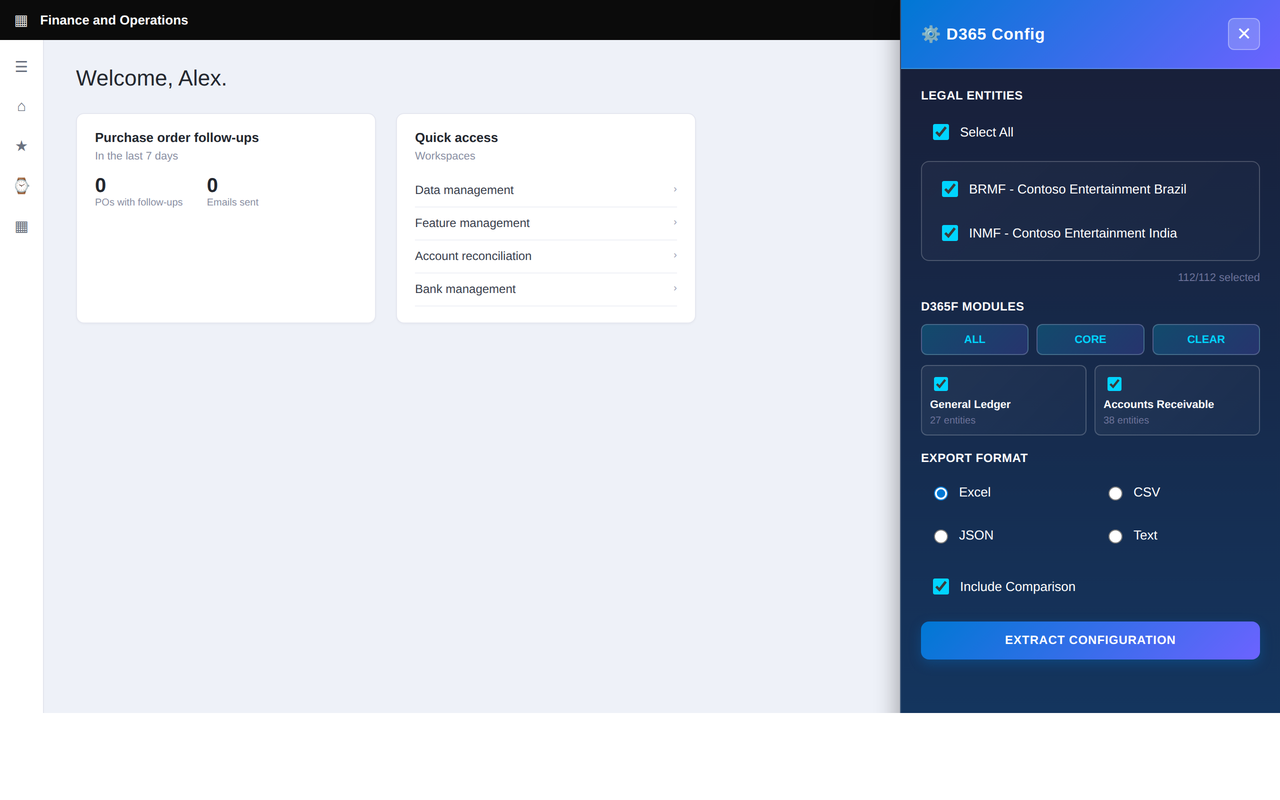
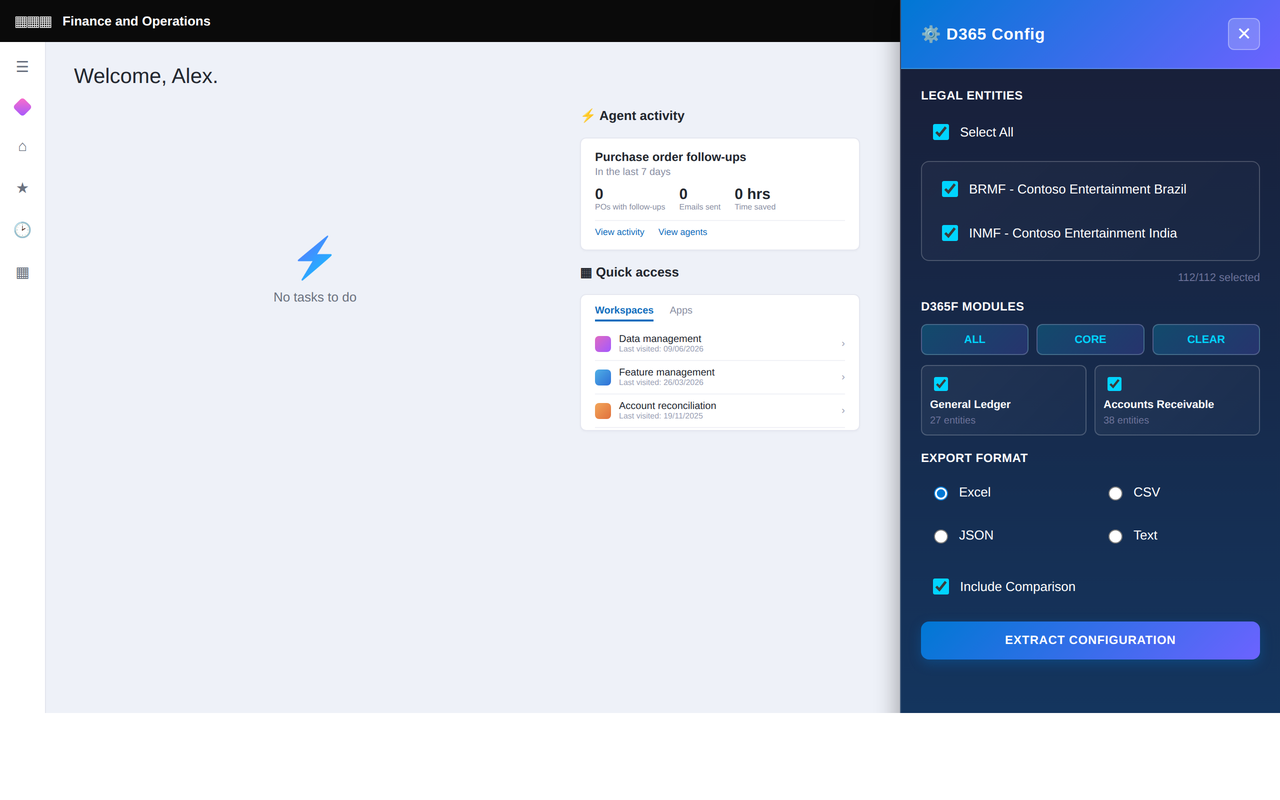
Rebuild D365 background mockup in store screenshots
Replace the generic dashboard background with a closer
recreation of the real Finance and Operations UI: Agent
activity cards, Quick access list with last-visited dates,
lightning-bolt empty state, left icon rail, and AI disclaimer
footer.

Claude-Session: https://claude.ai/code/session_014gvKBToYwyUDe6GxY7kjEh

diff --git a/store-assets/screenshot-1-popup-source.html b/store-assets/screenshot-1-popup-source.html
@@ -15,51 +15,100 @@
     height: 44px; width: 1280px; background: #f3f3f3; border-bottom: 1px solid #d8d8d8;
     display: flex; align-items: center; padding: 0 12px; gap: 10px;
   }
-  .chrome .navicon { width: 15px; height: 15px; opacity: .55; }
+  .chrome .navicon { font-size: 13px; opacity: .55; }
   .chrome .addressbar {
     flex: 1; height: 26px; background: #fff; border: 1px solid #d8d8d8; border-radius: 14px;
     display: flex; align-items: center; padding: 0 12px; font-size: 12px; color: #444; gap: 6px;
   }
   .chrome .addressbar .lock { font-size: 11px; opacity: .6; }
   .chrome .icons { display: flex; align-items: center; gap: 14px; margin-left: 8px; }
-  .chrome .icons .dot { width: 16px; height: 16px; border-radius: 3px; background: #b9b9b9; opacity: .5; }
+  .chrome .icons .dot { width: 16px; height: 16px; border-radius: 3px; background: #b9b9b9; opacity: .5; font-size:11px; text-align:center;}
   .chrome .ext-icon {
     width: 26px; height: 26px; border-radius: 6px; background: #e6f2fb; border: 1px solid #8ec7ee;
     display: flex; align-items: center; justify-content: center; font-size: 13px; box-shadow: 0 0 0 3px rgba(0,120,212,0.12);
   }
-  .chrome .avatar { width: 22px; height: 22px; border-radius: 50%; background: linear-gradient(135deg,#0078d4,#6c63ff); }
+  .chrome .avatar {
+    width: 22px; height: 22px; border-radius: 50%; background: linear-gradient(135deg,#0078d4,#6c63ff);
+    color:#fff; font-size:9px; font-weight:700; display:flex; align-items:center; justify-content:center;
+  }
 
   /* ---------- D365 app background ---------- */
   .app { width: 1280px; height: 756px; background: #eef1f8; position: relative; }
   .app .topbar {
-    height: 40px; background: #0b0b0b; color: #fff; display: flex; align-items: center;
+    height: 42px; background: #0a0a0a; color: #fff; display: flex; align-items: center;
     padding: 0 14px; font-size: 13px; gap: 12px;
   }
-  .app .topbar .grid { font-size: 15px; opacity: .85; }
-  .app .topbar .title { font-weight: 600; }
+  .app .topbar .waffle { font-size: 15px; letter-spacing: -2px; opacity: .9; }
+  .app .topbar .title { font-weight: 600; font-size: 13px; }
+  .app .topbar .spacer { flex: 1; }
+  .app .topbar .ticons { display: flex; align-items: center; gap: 16px; font-size: 13px; opacity: .85; }
+  .app .topbar .copilot { display:flex; align-items:center; gap:5px; }
+  .app .topbar .copilot .swirl {
+    width:15px; height:15px; border-radius:50%;
+    background: conic-gradient(from 180deg,#00d4ff,#6c63ff,#ff6ec7,#00d4ff);
+  }
+  .app .topbar .avatar2 {
+    width: 22px; height: 22px; border-radius: 50%; background: linear-gradient(135deg,#0078d4,#6c63ff);
+    color:#fff; font-size:9px; font-weight:700; display:flex; align-items:center; justify-content:center;
+  }
+
   .app .body { display: flex; }
   .app .rail {
-    width: 44px; background: #fff; height: 716px; border-right: 1px solid #e3e5ee;
-    display: flex; flex-direction: column; align-items: center; gap: 22px; padding-top: 18px;
-    color: #6b7280; font-size: 15px;
+    width: 46px; background: #fff; height: 714px; border-right: 1px solid #e3e5ee;
+    display: flex; flex-direction: column; align-items: center; gap: 24px; padding-top: 16px;
+    color: #6b7280; font-size: 15px; flex-shrink:0;
   }
-  .app .main { flex: 1; padding: 26px 32px; }
-  .app .welcome { font-size: 22px; color: #23272f; margin-bottom: 22px; }
-  .app .cards { display: flex; gap: 20px; }
+  .app .rail .diamond {
+    width: 14px; height: 14px; border-radius: 3px; transform: rotate(45deg);
+    background: linear-gradient(135deg,#ff6ec7,#a259ff);
+  }
+
+  .app .main { flex: 1; padding: 22px 28px; position: relative; height: 714px; }
+  .app .welcome { font-size: 21px; color: #23272f; margin-bottom: 20px; font-weight: 400; }
+
+  .app .layout { display: flex; gap: 24px; height: 600px; }
+  .app .empty-zone {
+    flex: 1; display: flex; flex-direction: column; align-items: center; justify-content: center;
+    color: #9aa0b4;
+  }
+  .app .empty-zone .bolt {
+    font-size: 46px; background: linear-gradient(135deg,#6c63ff,#00d4ff);
+    -webkit-background-clip: text; background-clip: text; color: transparent; margin-bottom: 10px;
+  }
+  .app .empty-zone .txt { font-size: 14px; color: #6b7280; }
+
+  .app .right-col { width: 300px; display: flex; flex-direction: column; gap: 16px; flex-shrink:0; }
+  .app .section-title { font-size: 13px; font-weight: 600; color: #23272f; display:flex; align-items:center; gap:6px; }
+
   .app .card {
-    background: #fff; border-radius: 8px; border: 1px solid #e5e7f0; padding: 16px 18px;
-    width: 300px; box-shadow: 0 1px 2px rgba(0,0,0,0.03);
+    background: #fff; border-radius: 6px; border: 1px solid #e5e7f0; padding: 14px 16px;
+    box-shadow: 0 1px 2px rgba(0,0,0,0.03);
   }
-  .app .card h4 { margin: 0 0 4px; font-size: 13px; color: #23272f; }
-  .app .card .sub { font-size: 11px; color: #8a8fa3; margin-bottom: 12px; }
-  .app .stat-row { display: flex; gap: 24px; margin-bottom: 10px; }
-  .app .stat .num { font-size: 20px; font-weight: 600; color: #23272f; }
-  .app .stat .lbl { font-size: 10px; color: #8a8fa3; }
+  .app .card h4 { margin: 0 0 2px; font-size: 12px; font-weight: 600; color: #23272f; }
+  .app .card .sub { font-size: 10px; color: #8a8fa3; margin-bottom: 10px; }
+  .app .stat-row { display: flex; gap: 18px; margin-bottom: 10px; }
+  .app .stat .num { font-size: 17px; font-weight: 600; color: #23272f; }
+  .app .stat .lbl { font-size: 9px; color: #8a8fa3; }
+  .app .card-links { display:flex; gap:14px; padding-top:8px; border-top:1px solid #f0f1f6; }
+  .app .card-links a { font-size: 10px; color: #106ebe; text-decoration:none; }
+
+  .app .qa-card { padding: 12px 16px 4px; }
+  .app .qa-tabs { display:flex; gap:16px; font-size:11px; margin-bottom:8px; }
+  .app .qa-tabs .active { color:#106ebe; font-weight:600; border-bottom:2px solid #106ebe; padding-bottom:4px; }
+  .app .qa-tabs .inactive { color:#8a8fa3; padding-bottom:4px; }
   .app .qa-item {
-    display: flex; justify-content: space-between; padding: 9px 0; border-bottom: 1px solid #f0f1f6;
-    font-size: 12px; color: #3a3f4d;
+    display: flex; align-items:center; gap:10px; padding: 8px 0; border-bottom: 1px solid #f0f1f6;
   }
-  .app .qa-item .meta { font-size: 10px; color: #9aa0b4; display:block; }
+  .app .qa-icon { width:20px; height:20px; border-radius:4px; flex-shrink:0; }
+  .app .qa-text { flex:1; }
+  .app .qa-name { font-size: 11px; color: #23272f; font-weight:500; }
+  .app .qa-meta { font-size: 9px; color: #9aa0b4; }
+  .app .qa-chev { color:#9aa0b4; font-size:11px; }
+
+  .app .footer-note {
+    position:absolute; bottom: 8px; left:0; right:0; text-align:center; font-size:10px; color:#9aa0b4;
+  }
+  .app .footer-note u { color:#6b7280; }
 
   /* ---------- Popup mock (pixel-accurate copy of toggle.html) ---------- */
   .popup-wrap {
@@ -91,44 +140,76 @@
     <span class="navicon">&#8592;</span><span class="navicon">&#8594;</span><span class="navicon">&#8635;</span>
     <div class="addressbar"><span class="lock">&#128274;</span>contoso.operations.dynamics.com/finance</div>
     <div class="icons">
+      <span class="dot">&#128269;</span>
       <span class="dot">&#9733;</span>
       <div class="ext-icon">&#9881;&#65039;</div>
-      <span class="dot">&#9635;</span>
-      <div class="avatar"></div>
+      <div class="avatar">AL</div>
     </div>
   </div>
 
   <div class="app">
     <div class="topbar">
-      <span class="grid">&#9638;</span>
+      <span class="waffle">&#9638;&#9638;&#9638;</span>
       <span class="title">Finance and Operations</span>
+      <div class="spacer"></div>
+      <div class="ticons">
+        <span>&#128269;</span><span>&#9873;</span><span>&#9993;</span><span>&#9881;&#65039;</span><span>&#63;</span>
+        <div class="copilot"><div class="swirl"></div><span>Chat</span></div>
+        <div class="avatar2">AL</div>
+      </div>
     </div>
     <div class="body">
       <div class="rail">
-        <span>&#9776;</span><span>&#8962;</span><span>&#9733;</span><span>&#8986;</span><span>&#9638;</span>
+        <span>&#9776;</span>
+        <div class="diamond"></div>
+        <span>&#8962;</span>
+        <span>&#9733;</span>
+        <span>&#128337;</span>
+        <span>&#9638;</span>
       </div>
       <div class="main">
         <div class="welcome">Welcome, Alex.</div>
-        <div class="cards">
-          <div class="card">
-            <h4>Purchase order follow-ups</h4>
-            <div class="sub">In the last 7 days</div>
-            <div class="stat-row">
-              <div class="stat"><div class="num">0</div><div class="lbl">POs with follow-ups</div></div>
-              <div class="stat"><div class="num">0</div><div class="lbl">Emails sent</div></div>
-            </div>
+        <div class="layout">
+          <div class="empty-zone">
+            <div class="bolt">&#9889;</div>
+            <div class="txt">No tasks to do</div>
           </div>
-          <div class="card">
-            <h4>Quick access</h4>
-            <div class="sub">Workspaces</div>
-            <div class="qa-item">Data management<span class="meta">&rsaquo;</span></div>
-            <div class="qa-item">Feature management<span class="meta">&rsaquo;</span></div>
-            <div class="qa-item">Account reconciliation<span class="meta">&rsaquo;</span></div>
-            <div class="qa-item">Bank management<span class="meta">&rsaquo;</span></div>
+          <div class="right-col">
+            <div class="section-title">&#9889; Agent activity</div>
+            <div class="card">
+              <h4>Purchase order follow-ups</h4>
+              <div class="sub">In the last 7 days</div>
+              <div class="stat-row">
+                <div class="stat"><div class="num">0</div><div class="lbl">POs with follow-ups</div></div>
+                <div class="stat"><div class="num">0</div><div class="lbl">Emails sent</div></div>
+                <div class="stat"><div class="num">0 hrs</div><div class="lbl">Time saved</div></div>
+              </div>
+              <div class="card-links"><a>View activity</a><a>View agents</a></div>
+            </div>
+            <div class="section-title">&#9638; Quick access</div>
+            <div class="card qa-card">
+              <div class="qa-tabs"><span class="active">Workspaces</span><span class="inactive">Apps</span></div>
+              <div class="qa-item">
+                <div class="qa-icon" style="background:linear-gradient(135deg,#e06ac2,#a259ff)"></div>
+                <div class="qa-text"><div class="qa-name">Data management</div><div class="qa-meta">Last visited: 09/06/2026</div></div>
+                <span class="qa-chev">&#8250;</span>
+              </div>
+              <div class="qa-item">
+                <div class="qa-icon" style="background:linear-gradient(135deg,#4fb0e6,#2f6fd6)"></div>
+                <div class="qa-text"><div class="qa-name">Feature management</div><div class="qa-meta">Last visited: 26/03/2026</div></div>
+                <span class="qa-chev">&#8250;</span>
+              </div>
+              <div class="qa-item">
+                <div class="qa-icon" style="background:linear-gradient(135deg,#f2a65a,#e0703c)"></div>
+                <div class="qa-text"><div class="qa-name">Account reconciliation</div><div class="qa-meta">Last visited: 19/11/2025</div></div>
+                <span class="qa-chev">&#8250;</span>
+              </div>
+            </div>
           </div>
         </div>
       </div>
     </div>
+    <div class="footer-note">&#10022; AI generated content may be incorrect. <u>See terms</u></div>
   </div>
 
   <div class="popup-wrap">

diff --git a/store-assets/screenshot-2-sidebar-source.html b/store-assets/screenshot-2-sidebar-source.html
@@ -10,37 +10,72 @@
     position: relative;
   }
 
-  /* ---------- D365 app background (same as shot1, no browser chrome so more app is visible) ---------- */
+  /* ---------- D365 app background (no browser chrome, full 800px tall) ---------- */
   .app { width: 1280px; height: 800px; background: #eef1f8; position: relative; }
   .app .topbar {
-    height: 40px; background: #0b0b0b; color: #fff; display: flex; align-items: center;
+    height: 42px; background: #0a0a0a; color: #fff; display: flex; align-items: center;
     padding: 0 14px; font-size: 13px; gap: 12px;
   }
-  .app .topbar .grid { font-size: 15px; opacity: .85; }
-  .app .topbar .title { font-weight: 600; }
+  .app .topbar .waffle { font-size: 15px; letter-spacing: -2px; opacity: .9; }
+  .app .topbar .title { font-weight: 600; font-size: 13px; }
+
   .app .body { display: flex; }
   .app .rail {
-    width: 44px; background: #fff; height: 760px; border-right: 1px solid #e3e5ee;
-    display: flex; flex-direction: column; align-items: center; gap: 22px; padding-top: 18px;
-    color: #6b7280; font-size: 15px;
+    width: 46px; background: #fff; height: 758px; border-right: 1px solid #e3e5ee;
+    display: flex; flex-direction: column; align-items: center; gap: 24px; padding-top: 16px;
+    color: #6b7280; font-size: 15px; flex-shrink:0;
   }
-  .app .main { flex: 1; padding: 26px 32px; }
-  .app .welcome { font-size: 22px; color: #23272f; margin-bottom: 22px; }
-  .app .cards { display: flex; gap: 20px; }
+  .app .rail .diamond {
+    width: 14px; height: 14px; border-radius: 3px; transform: rotate(45deg);
+    background: linear-gradient(135deg,#ff6ec7,#a259ff);
+  }
+
+  .app .main { flex: 1; padding: 22px 28px; padding-right: 420px; position: relative; height: 758px; }
+  .app .welcome { font-size: 21px; color: #23272f; margin-bottom: 20px; font-weight: 400; }
+
+  .app .layout { display: flex; gap: 24px; }
+  .app .empty-zone {
+    flex: 1; display: flex; flex-direction: column; align-items: center; justify-content: center;
+    color: #9aa0b4; min-height: 300px;
+  }
+  .app .empty-zone .bolt {
+    font-size: 40px; background: linear-gradient(135deg,#6c63ff,#00d4ff);
+    -webkit-background-clip: text; background-clip: text; color: transparent; margin-bottom: 8px;
+  }
+  .app .empty-zone .txt { font-size: 13px; color: #6b7280; }
+
+  .app .right-col { width: 280px; display: flex; flex-direction: column; gap: 14px; flex-shrink:0; }
+  .app .section-title { font-size: 13px; font-weight: 600; color: #23272f; display:flex; align-items:center; gap:6px; }
+
   .app .card {
-    background: #fff; border-radius: 8px; border: 1px solid #e5e7f0; padding: 16px 18px;
-    width: 300px; box-shadow: 0 1px 2px rgba(0,0,0,0.03);
+    background: #fff; border-radius: 6px; border: 1px solid #e5e7f0; padding: 12px 14px;
+    box-shadow: 0 1px 2px rgba(0,0,0,0.03);
   }
-  .app .card h4 { margin: 0 0 4px; font-size: 13px; color: #23272f; }
-  .app .card .sub { font-size: 11px; color: #8a8fa3; margin-bottom: 12px; }
-  .app .stat-row { display: flex; gap: 24px; margin-bottom: 10px; }
-  .app .stat .num { font-size: 20px; font-weight: 600; color: #23272f; }
-  .app .stat .lbl { font-size: 10px; color: #8a8fa3; }
+  .app .card h4 { margin: 0 0 2px; font-size: 12px; font-weight: 600; color: #23272f; }
+  .app .card .sub { font-size: 10px; color: #8a8fa3; margin-bottom: 8px; }
+  .app .stat-row { display: flex; gap: 14px; margin-bottom: 8px; }
+  .app .stat .num { font-size: 15px; font-weight: 600; color: #23272f; }
+  .app .stat .lbl { font-size: 8px; color: #8a8fa3; }
+  .app .card-links { display:flex; gap:14px; padding-top:6px; border-top:1px solid #f0f1f6; }
+  .app .card-links a { font-size: 9px; color: #106ebe; text-decoration:none; }
+
+  .app .qa-card { padding: 10px 14px 2px; }
+  .app .qa-tabs { display:flex; gap:16px; font-size:10px; margin-bottom:6px; }
+  .app .qa-tabs .active { color:#106ebe; font-weight:600; border-bottom:2px solid #106ebe; padding-bottom:3px; }
+  .app .qa-tabs .inactive { color:#8a8fa3; padding-bottom:3px; }
   .app .qa-item {
-    display: flex; justify-content: space-between; padding: 9px 0; border-bottom: 1px solid #f0f1f6;
-    font-size: 12px; color: #3a3f4d;
+    display: flex; align-items:center; gap:8px; padding: 6px 0; border-bottom: 1px solid #f0f1f6;
   }
-  .app .qa-item .meta { font-size: 10px; color: #9aa0b4; display:block; }
+  .app .qa-icon { width:16px; height:16px; border-radius:4px; flex-shrink:0; }
+  .app .qa-text { flex:1; }
+  .app .qa-name { font-size: 10px; color: #23272f; font-weight:500; }
+  .app .qa-meta { font-size: 8px; color: #9aa0b4; }
+  .app .qa-chev { color:#9aa0b4; font-size:10px; }
+
+  .app .footer-note {
+    position:absolute; bottom: 8px; left:0; right:0; text-align:center; font-size:10px; color:#9aa0b4;
+  }
+  .app .footer-note u { color:#6b7280; }
 
   /* ================= Sidebar: exact copy of sidebar.css, scoped ================= */
   :root {
@@ -114,35 +149,61 @@
 
   <div class="app">
     <div class="topbar">
-      <span class="grid">&#9638;</span>
+      <span class="waffle">&#9638;&#9638;&#9638;</span>
       <span class="title">Finance and Operations</span>
     </div>
     <div class="body">
       <div class="rail">
-        <span>&#9776;</span><span>&#8962;</span><span>&#9733;</span><span>&#8986;</span><span>&#9638;</span>
+        <span>&#9776;</span>
+        <div class="diamond"></div>
+        <span>&#8962;</span>
+        <span>&#9733;</span>
+        <span>&#128337;</span>
+        <span>&#9638;</span>
       </div>
       <div class="main">
         <div class="welcome">Welcome, Alex.</div>
-        <div class="cards">
-          <div class="card">
-            <h4>Purchase order follow-ups</h4>
-            <div class="sub">In the last 7 days</div>
-            <div class="stat-row">
-              <div class="stat"><div class="num">0</div><div class="lbl">POs with follow-ups</div></div>
-              <div class="stat"><div class="num">0</div><div class="lbl">Emails sent</div></div>
-            </div>
+        <div class="layout">
+          <div class="empty-zone">
+            <div class="bolt">&#9889;</div>
+            <div class="txt">No tasks to do</div>
           </div>
-          <div class="card">
-            <h4>Quick access</h4>
-            <div class="sub">Workspaces</div>
-            <div class="qa-item">Data management<span class="meta">&rsaquo;</span></div>
-            <div class="qa-item">Feature management<span class="meta">&rsaquo;</span></div>
-            <div class="qa-item">Account reconciliation<span class="meta">&rsaquo;</span></div>
-            <div class="qa-item">Bank management<span class="meta">&rsaquo;</span></div>
+          <div class="right-col">
+            <div class="section-title">&#9889; Agent activity</div>
+            <div class="card">
+              <h4>Purchase order follow-ups</h4>
+              <div class="sub">In the last 7 days</div>
+              <div class="stat-row">
+                <div class="stat"><div class="num">0</div><div class="lbl">POs with follow-ups</div></div>
+                <div class="stat"><div class="num">0</div><div class="lbl">Emails sent</div></div>
+                <div class="stat"><div class="num">0 hrs</div><div class="lbl">Time saved</div></div>
+              </div>
+              <div class="card-links"><a>View activity</a><a>View agents</a></div>
+            </div>
+            <div class="section-title">&#9638; Quick access</div>
+            <div class="card qa-card">
+              <div class="qa-tabs"><span class="active">Workspaces</span><span class="inactive">Apps</span></div>
+              <div class="qa-item">
+                <div class="qa-icon" style="background:linear-gradient(135deg,#e06ac2,#a259ff)"></div>
+                <div class="qa-text"><div class="qa-name">Data management</div><div class="qa-meta">Last visited: 09/06/2026</div></div>
+                <span class="qa-chev">&#8250;</span>
+              </div>
+              <div class="qa-item">
+                <div class="qa-icon" style="background:linear-gradient(135deg,#4fb0e6,#2f6fd6)"></div>
+                <div class="qa-text"><div class="qa-name">Feature management</div><div class="qa-meta">Last visited: 26/03/2026</div></div>
+                <span class="qa-chev">&#8250;</span>
+              </div>
+              <div class="qa-item">
+                <div class="qa-icon" style="background:linear-gradient(135deg,#f2a65a,#e0703c)"></div>
+                <div class="qa-text"><div class="qa-name">Account reconciliation</div><div class="qa-meta">Last visited: 19/11/2025</div></div>
+                <span class="qa-chev">&#8250;</span>
+              </div>
+            </div>
           </div>
         </div>
       </div>
     </div>
+    <div class="footer-note">&#10022; AI generated content may be incorrect. <u>See terms</u></div>
   </div>
 
   <div id="d365-sidebar-container">